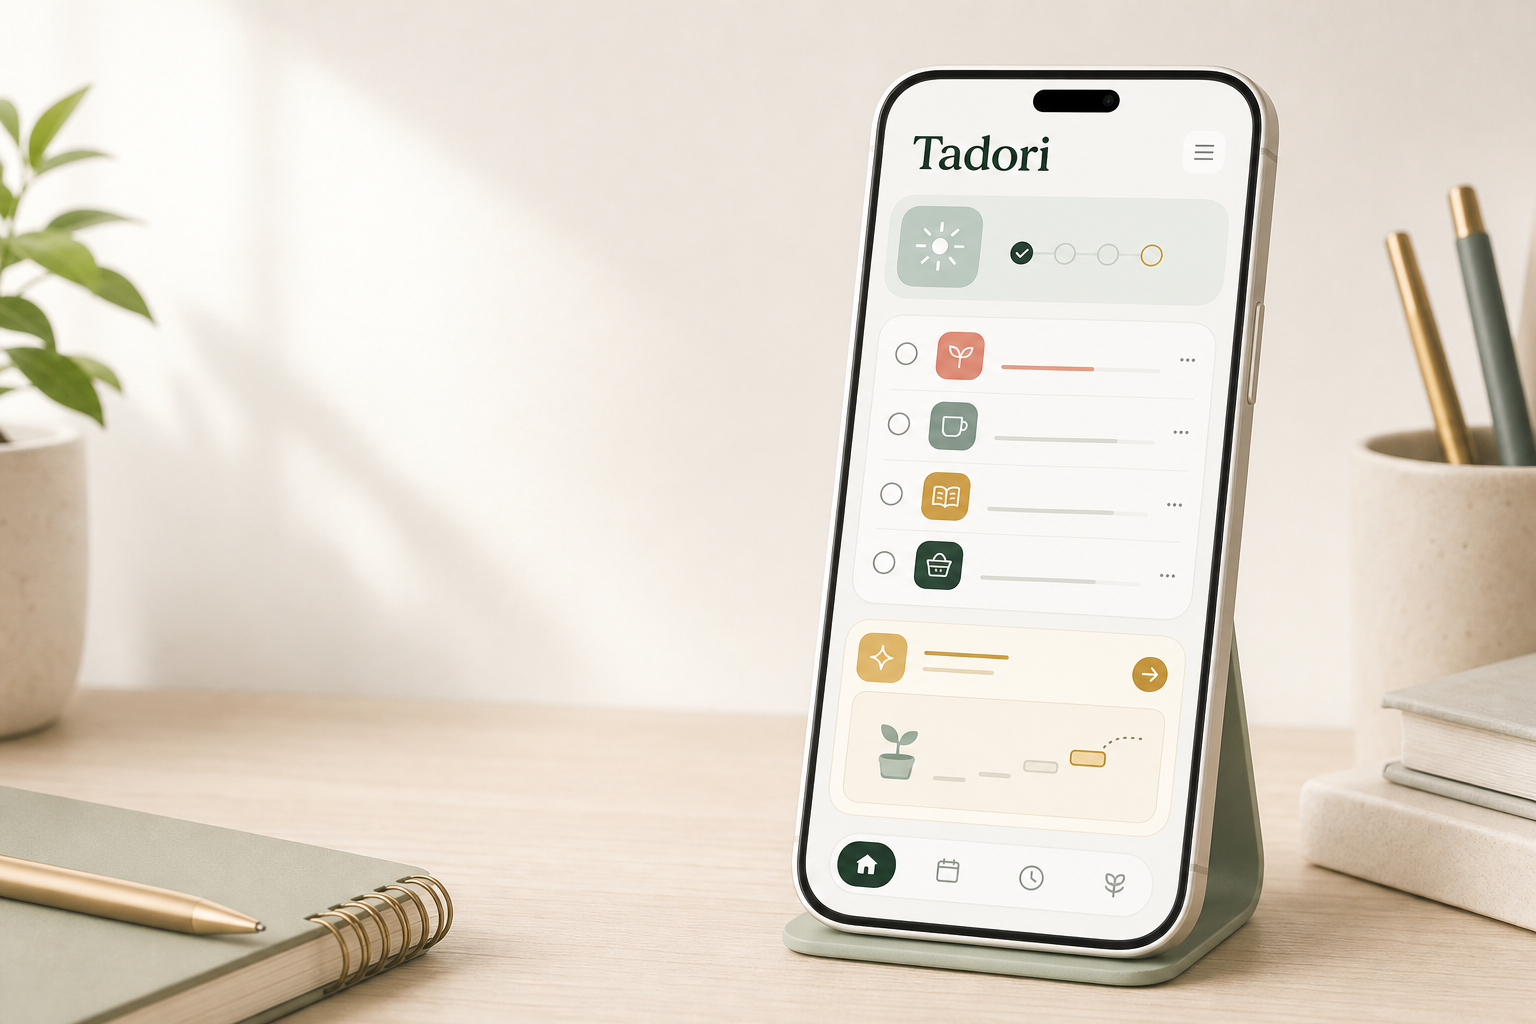
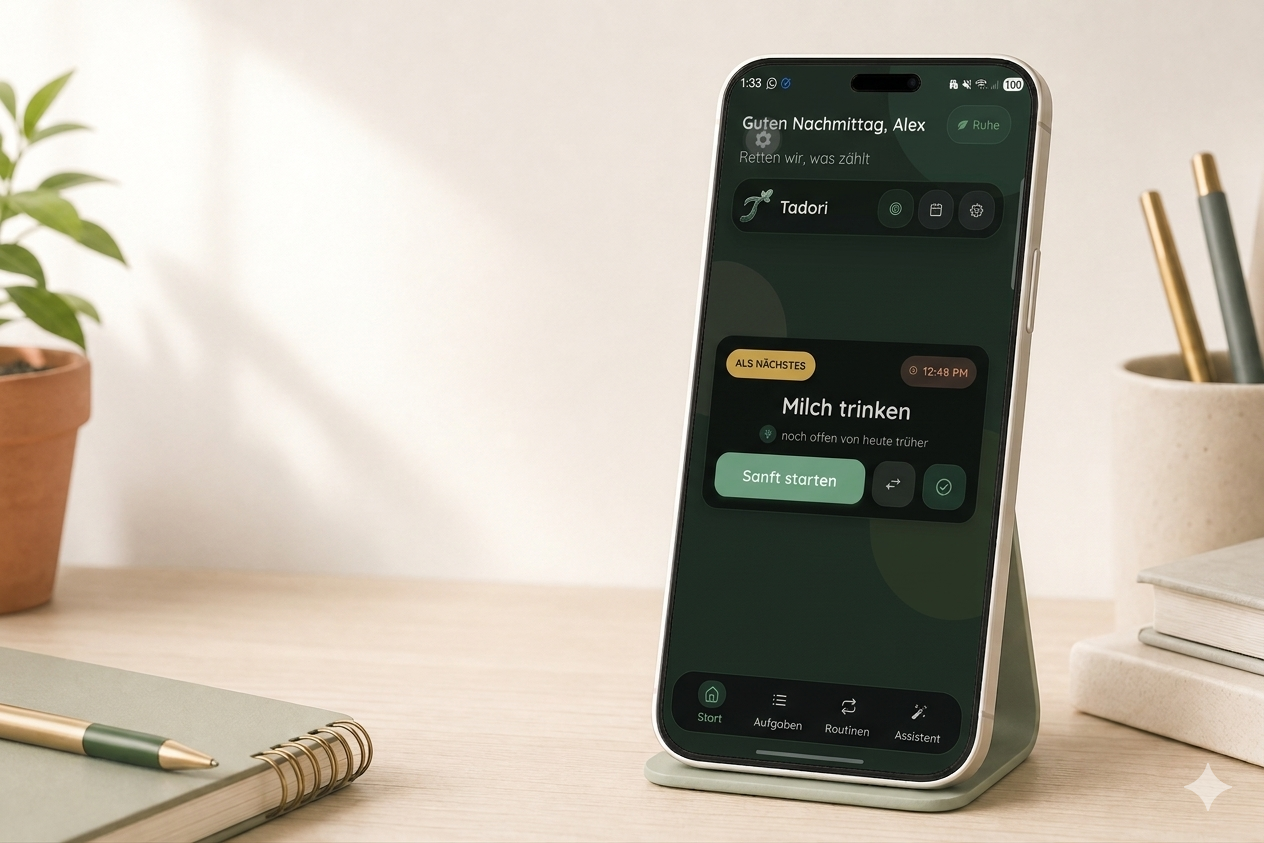
test

diff --git a/index.html b/index.html
@@ -15,7 +15,7 @@
       content="A calm, local-first task and routine manager for overwhelmed days."
     >
     <meta property="og:image" content="assets/img/tadori-hero.png">
-    <link rel="icon" href="assets/img/favicon.svg" type="image/svg+xml">
+    <link rel="icon" href="assets/img/favicon.png" type="image/svg+xml">
     <link rel="preconnect" href="https://fonts.googleapis.com">
     <link rel="preconnect" href="https://fonts.gstatic.com" crossorigin>
     <link

diff --git a/privacy/index.html b/privacy/index.html
@@ -10,7 +10,7 @@
       content="Read the Tadori privacy policy, including what data is stored locally, what account data is used, and how assistant features work."
     >
     <meta name="theme-color" content="#f7faf5">
-    <link rel="icon" href="../assets/img/favicon.svg" type="image/svg+xml">
+    <link rel="icon" href="../assets/img/favicon.png" type="image/svg+xml">
     <link rel="preconnect" href="https://fonts.googleapis.com">
     <link rel="preconnect" href="https://fonts.gstatic.com" crossorigin>
     <link

diff --git a/terms/index.html b/terms/index.html
@@ -9,7 +9,7 @@
       content="Read the Tadori terms of service for app usage, subscriptions, assistant features, and account responsibilities."
     >
     <meta name="theme-color" content="#f7faf5">
-    <link rel="icon" href="../assets/img/favicon.svg" type="image/svg+xml">
+    <link rel="icon" href="../assets/img/favicon.png" type="image/svg+xml">
     <link rel="preconnect" href="https://fonts.googleapis.com">
     <link rel="preconnect" href="https://fonts.gstatic.com" crossorigin>
     <link